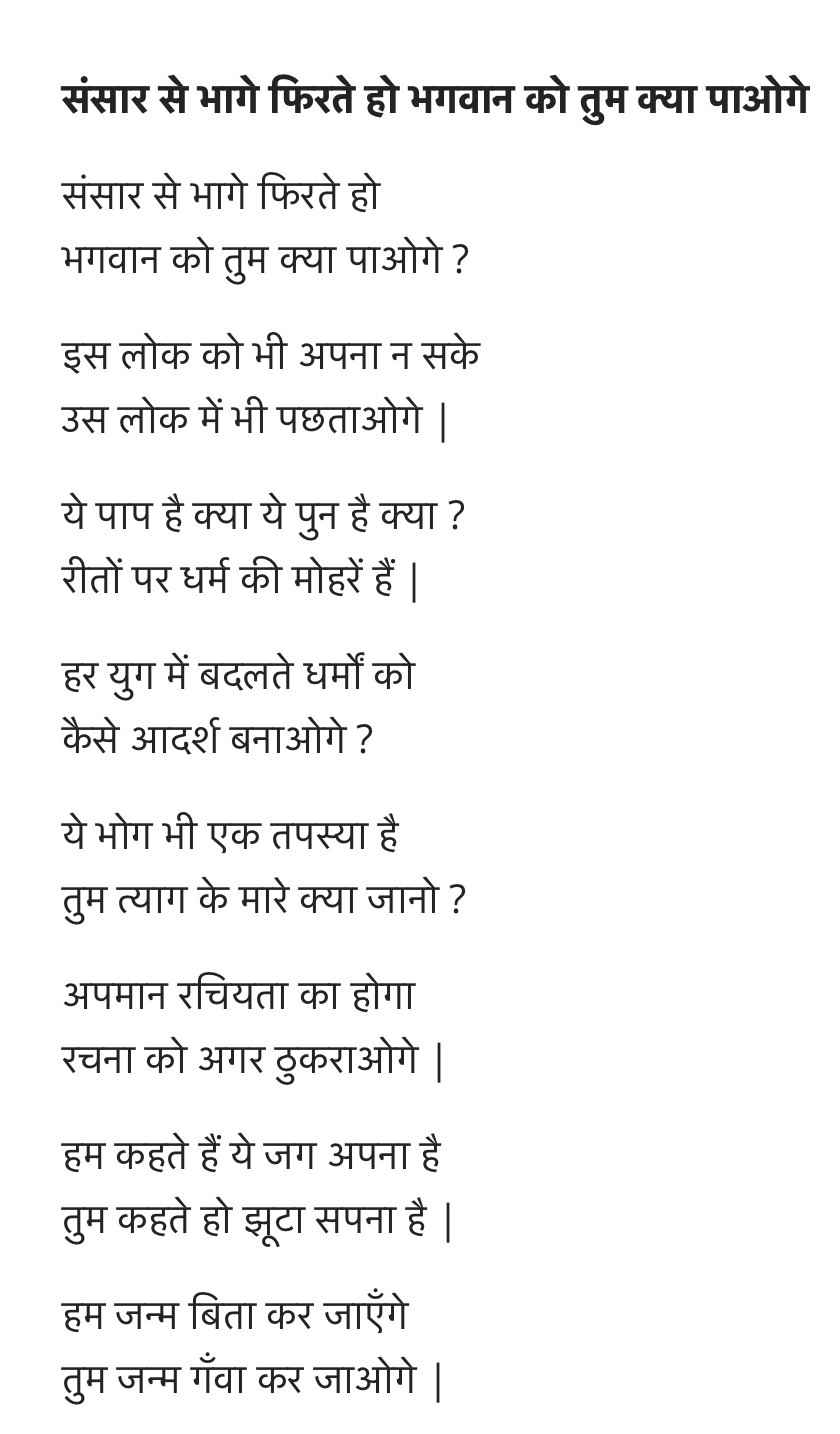
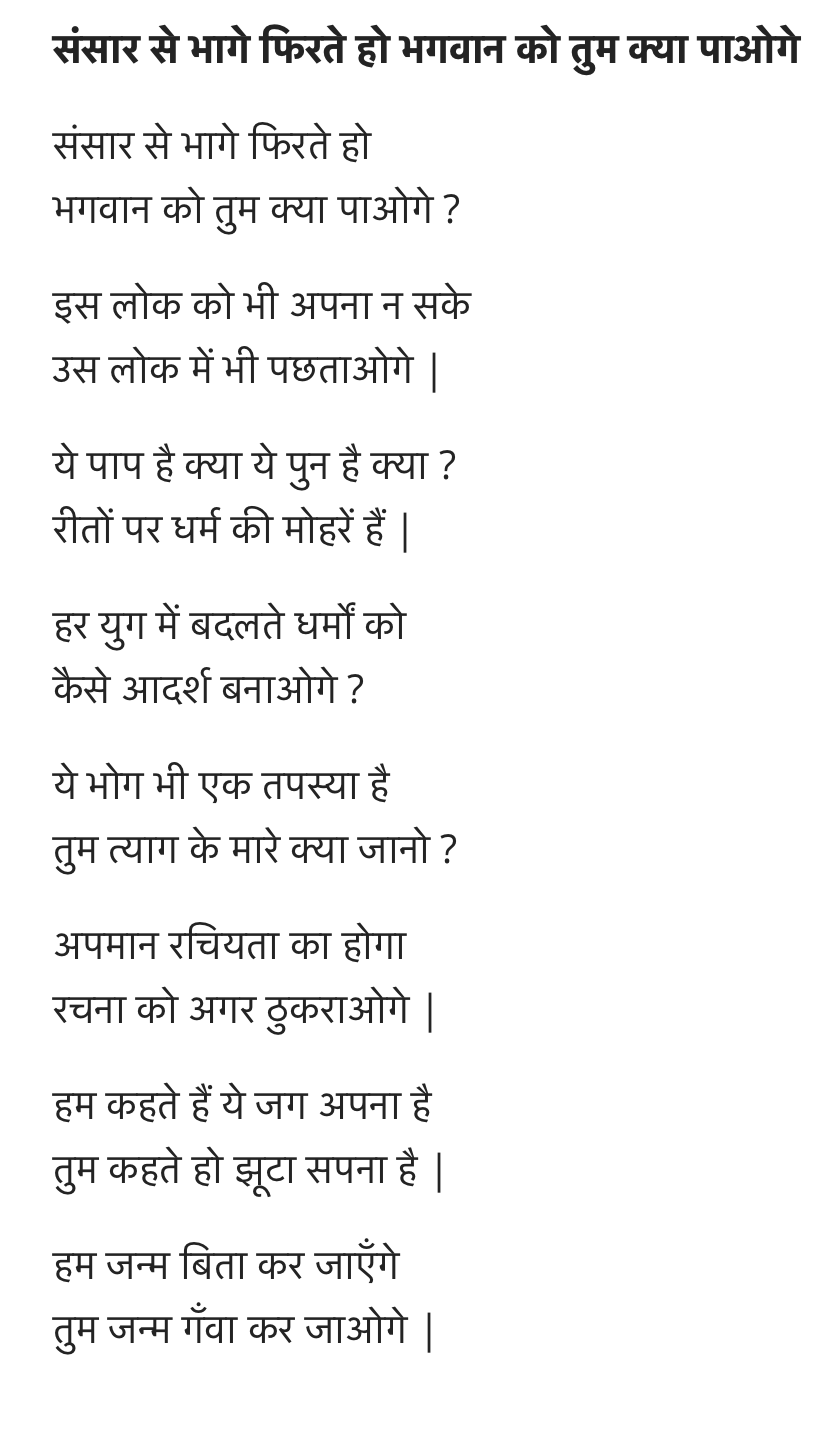
saving

Changed region(s): [[0.0619, 0.0, 0.9595, 0.9819]]

diff --git a/_posts/2019-10-03-sahil-sansar-se-bhage.md b/_posts/2019-10-03-sahil-sansar-se-bhage.md
@@ -11,4 +11,7 @@ published: true
 
 Sahil Ludhianvi's poem,  "Sansār Se Bhāge Phirte Ho Bhagvān Ko Tum Kyā Pāoge" :  Escaping the world, do you think you will  find God
 
-![sahil_saansar_se-bhage](../assets/sahil_saansar_se-bhage.png)
+
+
+<img src="../assets/sahil_saansar_se-bhage.png" alt="Sahil Ludhianvi" height="600" width="400">
+
